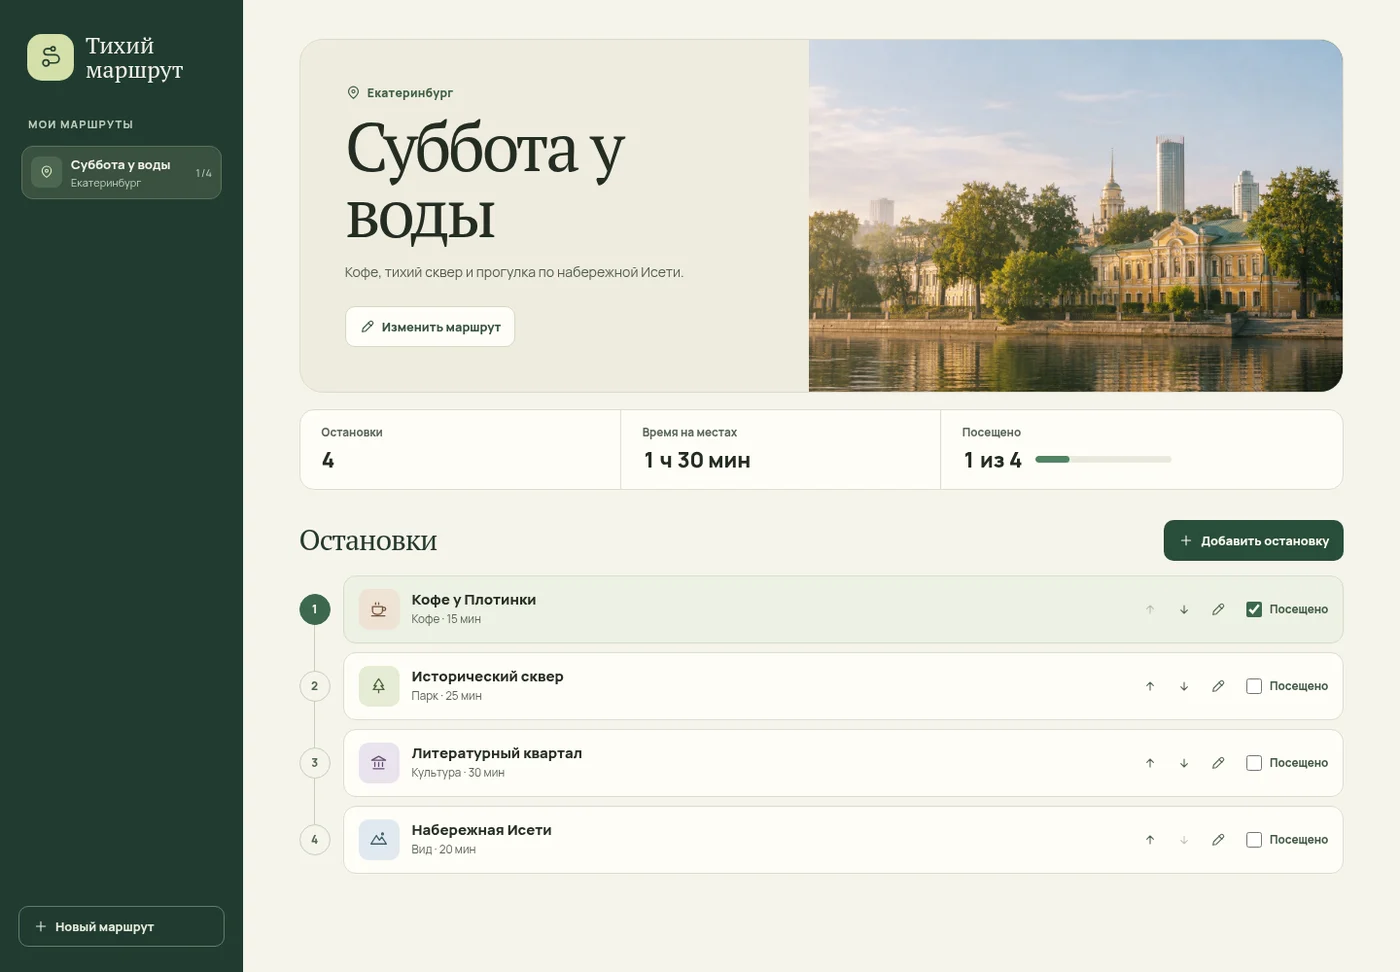
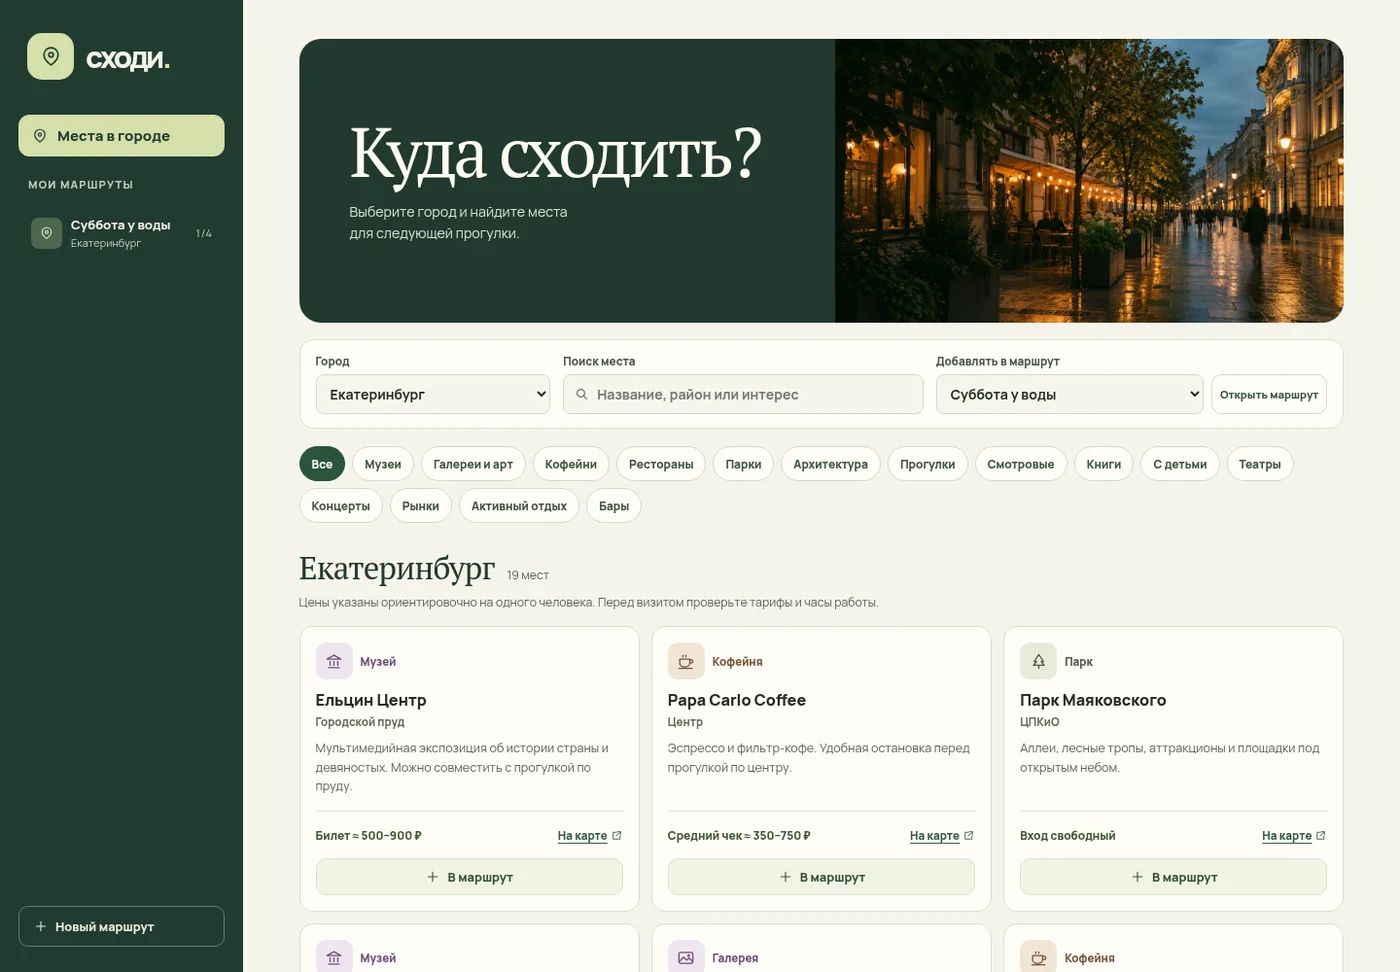
docs: introduce Shodi with a visitor-friendly guide

diff --git a/README.md b/README.md
@@ -1,63 +1,23 @@
-# Тихий маршрут
+# Сходи
 
-Планировщик прогулок для выходных. Соберите места в нужном порядке, прикиньте время на остановках и отмечайте посещённые места по ходу прогулки. Для знакомства с интерфейсом есть маршрут «Суббота у воды» по Екатеринбургу.
+Городской путеводитель для тех, кто хочет куда-нибудь сходить, но пока не решил куда.
 
-![Планировщик с примером маршрута по Екатеринбургу](docs/preview.webp)
+**[Скачать «Сходи»](https://github.com/epbloger/shodi/releases/latest/download/shodi.html)** · [Посмотреть выпуск](https://github.com/epbloger/shodi/releases/latest)
 
-## Что можно сделать
+Откройте скачанный файл в браузере. Можно сразу выбрать город и собирать прогулку.
 
-- Создать маршрут, указать город и оставить описание.
-- Добавить остановки с категориями, временем и заметками.
-- Поменять порядок остановок стрелками и отмечать посещённые места.
-- Просмотреть суммарное время на остановках и прогресс прогулки.
-- Отредактировать или удалить маршрут и отдельные остановки. Удаление нужно подтвердить.
+![Главный экран «Сходи» с каталогом мест Екатеринбурга](docs/preview.webp)
 
-## Как запустить
+## Найдите место под настроение
 
-Для локального запуска понадобится Python 3. Откройте [страницу репозитория](https://github.com/epbloger/weekend-atlas), нажмите **Code → Download ZIP** и распакуйте архив. Можно также скачать проект через Git.
+Кофе и спокойная прогулка, выставка, театр, вечерний концерт или занятие для всей семьи. В «Сходи» **95 мест в пяти городах** — Екатеринбурге, Москве, Санкт-Петербурге, Казани и Нижнем Новгороде.
 
-```sh
-git clone https://github.com/epbloger/weekend-atlas.git
-cd weekend-atlas
-```
+Есть **15 категорий**, включая музеи, кофейни, рестораны, парки, смотровые, книжные места, театры, рынки, бары и активный отдых. Ищите по названию, району или интересу. В карточке видны описание, ориентир по цене или среднему чеку и ссылка **«На карте»**.
 
-Откройте терминал в папке проекта. В ней должны быть `README.md` и папка `public`. Выполните одну команду для вашей системы.
+## Соберите прогулку
 
-**Windows**
+1. Выберите город и категорию.
+2. Нажмите **«В маршрут»** на карточке места. Можно выбрать существующую прогулку или создать новую.
+3. Откройте маршрут, расставьте остановки и отмечайте их по мере посещения.
 
-```cmd
-py -3 -m http.server 4173 --bind 127.0.0.1 --directory public
-```
-
-**macOS и Linux**
-
-```sh
-python3 -m http.server 4173 --bind 127.0.0.1 --directory public
-```
-
-Откройте **http://127.0.0.1:4173** в браузере. Чтобы выключить локальный сервер, нажмите **Ctrl+C** в терминале. Для работы приложения достаточно запустить этот сервер и открыть страницу. Шрифты, изображение и код входят в проект.
-
-## Как хранится информация
-
-Маршруты сохраняются в браузере через `localStorage`. Откройте приложение по тому же адресу и в том же профиле браузера, чтобы продолжить с сохранёнными данными. Очистка данных сайта удаляет маршруты. Если браузер блокирует сохранение, приложение показывает сообщение и оставляет изменения доступными в текущей вкладке.
-
-## Проверки
-
-Для автоматических проверок модели данных нужен Node.js 20 или новее. Из папки проекта выполните:
-
-```sh
-npm test
-```
-
-Тесты покрывают валидацию полей и сохранённого JSON, дубликаты записей, порядок остановок и расчёт времени. В Chromium также проверены создание, редактирование, удаление, отметка посещения, сохранение после перезагрузки и работа на узком экране.
-
-При проверке безопасности я проверил вывод пользовательского текста, чтение повреждённых данных и сетевые запросы. Названия и заметки выводятся как текст. Политика CSP ограничивает загрузку ресурсов источником страницы и блокирует внешние запросы приложения. В браузерном прогоне внешних запросов не было.
-
-## Файлы проекта
-
-- `public/index.html` и `public/styles.css` — интерфейс и адаптивная вёрстка.
-- `public/app.js` — работа форм, сохранение и обновление интерфейса.
-- `public/routes.js` — модель маршрутов и проверка данных.
-- `tests/routes.test.js` — тесты модели.
-
-Шрифты Manrope и PT Serif распространяются по SIL Open Font License. Тексты лицензий лежат рядом со шрифтами в `public/assets`. Изображение набережной — сгенерированная иллюстрация для демонстрационного маршрута.
+Маршруты хранятся в вашем браузере. Чтобы открыть их позже, используйте тот же файл и профиль браузера. Ссылки **«На карте»** открывают Яндекс Карты. Цены в карточках рассчитаны как ориентир на человека. Актуальный тариф и часы работы уточняйте перед визитом.
